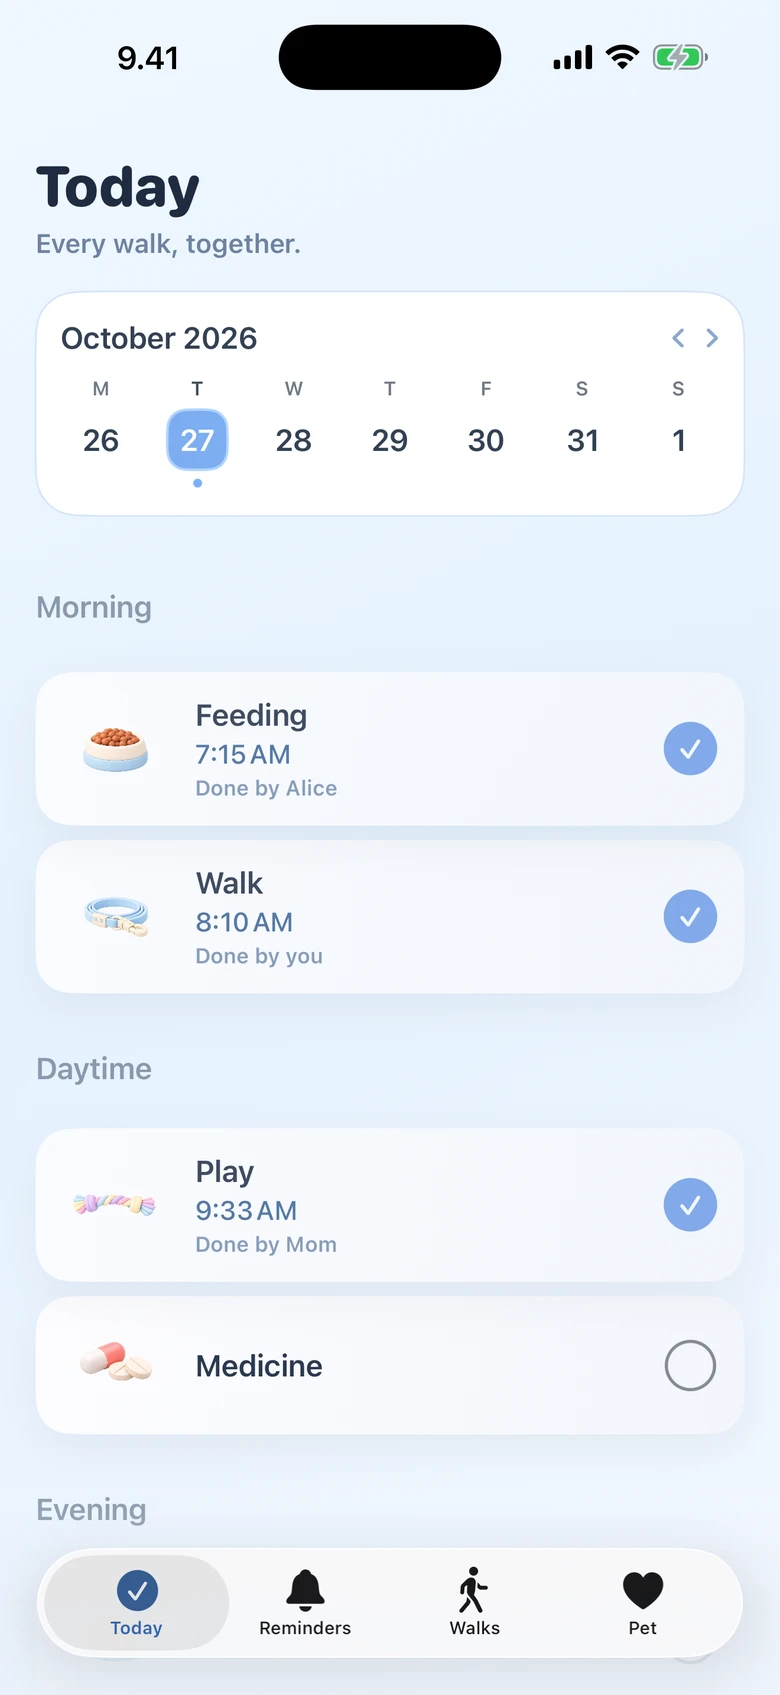
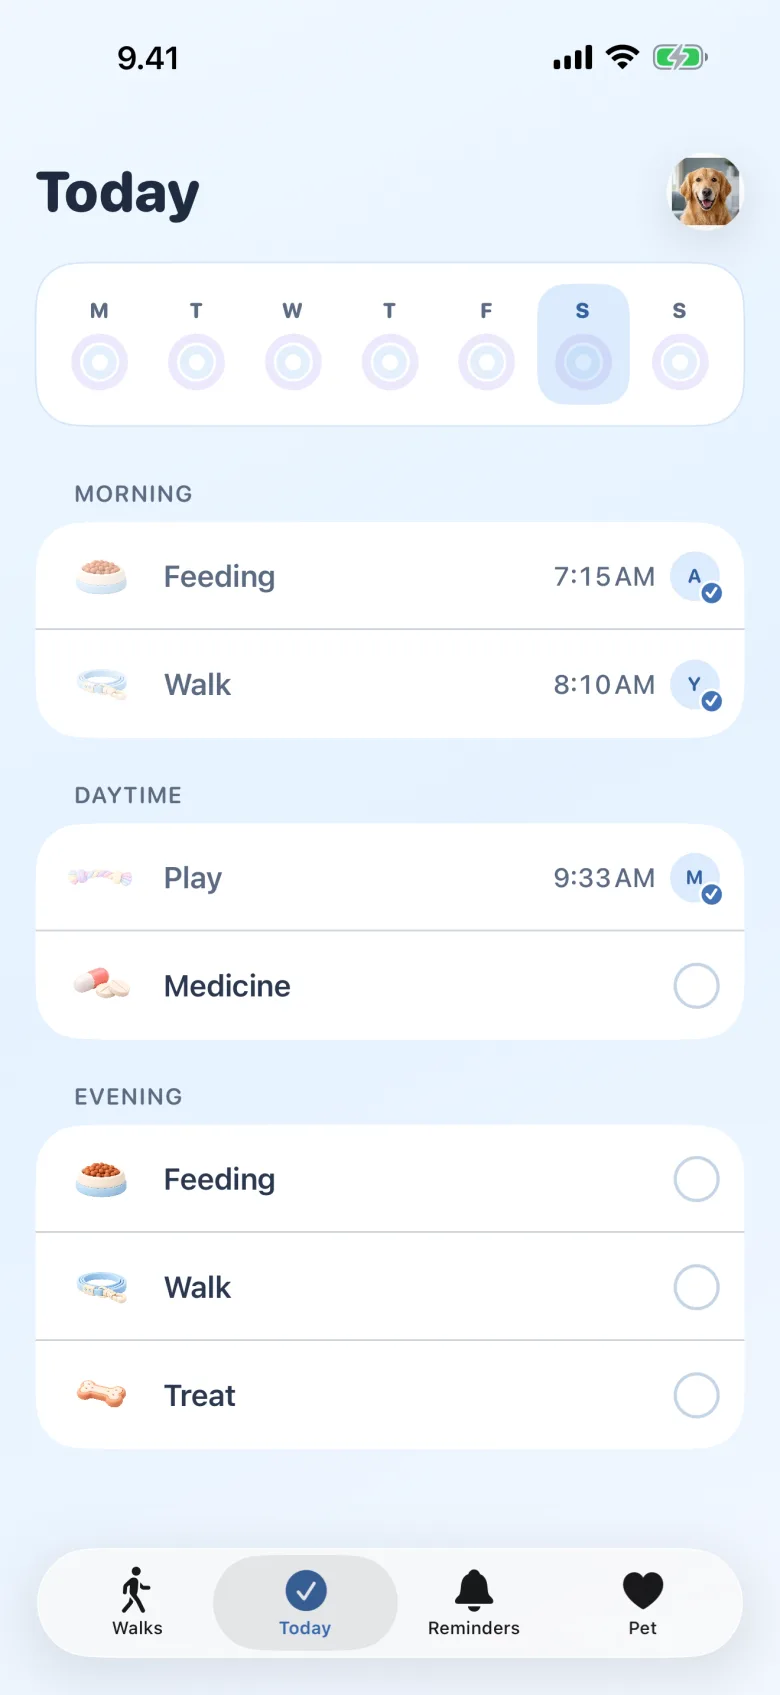
Show the current Today screen on the homepage

diff --git a/index.html b/index.html
@@ -64,7 +64,7 @@
     <section class="wrap" aria-label="App screens">
       <div class="showcase">
         <figure class="shot"><img src="/img/screen-pet.webp?v=4" alt="Pet screen with today’s sniff and walk rings and Frida’s world" width="390" height="844" /></figure>
-        <figure class="shot shot-raised"><img src="/img/screen-today.webp" alt="Today: feeding done by Alice at 7:15, a walk done by you, medicine still to do" width="390" height="848" /></figure>
+        <figure class="shot shot-raised"><img src="/img/screen-today.webp?v=2" alt="Today: feeding done by Alice at 7:15, a walk done by you, medicine still to do" width="390" height="848" /></figure>
         <figure class="shot"><img src="/img/screen-walk-saved.webp?v=4" alt="Walk saved: both rings closed" width="390" height="844" loading="lazy" /></figure>
         <figure class="shot shot-raised"><img src="/img/screen-household.webp?v=2" alt="Household screen with members and an invite QR code" width="390" height="844" loading="lazy" /></figure>
       </div>
@@ -127,7 +127,7 @@
         </ul>
       </div>
       <div class="split-visual">
-        <figure class="shot"><img src="/img/screen-today.webp" alt="" width="390" height="848" loading="lazy" /></figure>
+        <figure class="shot"><img src="/img/screen-today.webp?v=2" alt="" width="390" height="848" loading="lazy" /></figure>
       </div>
     </section>
 
